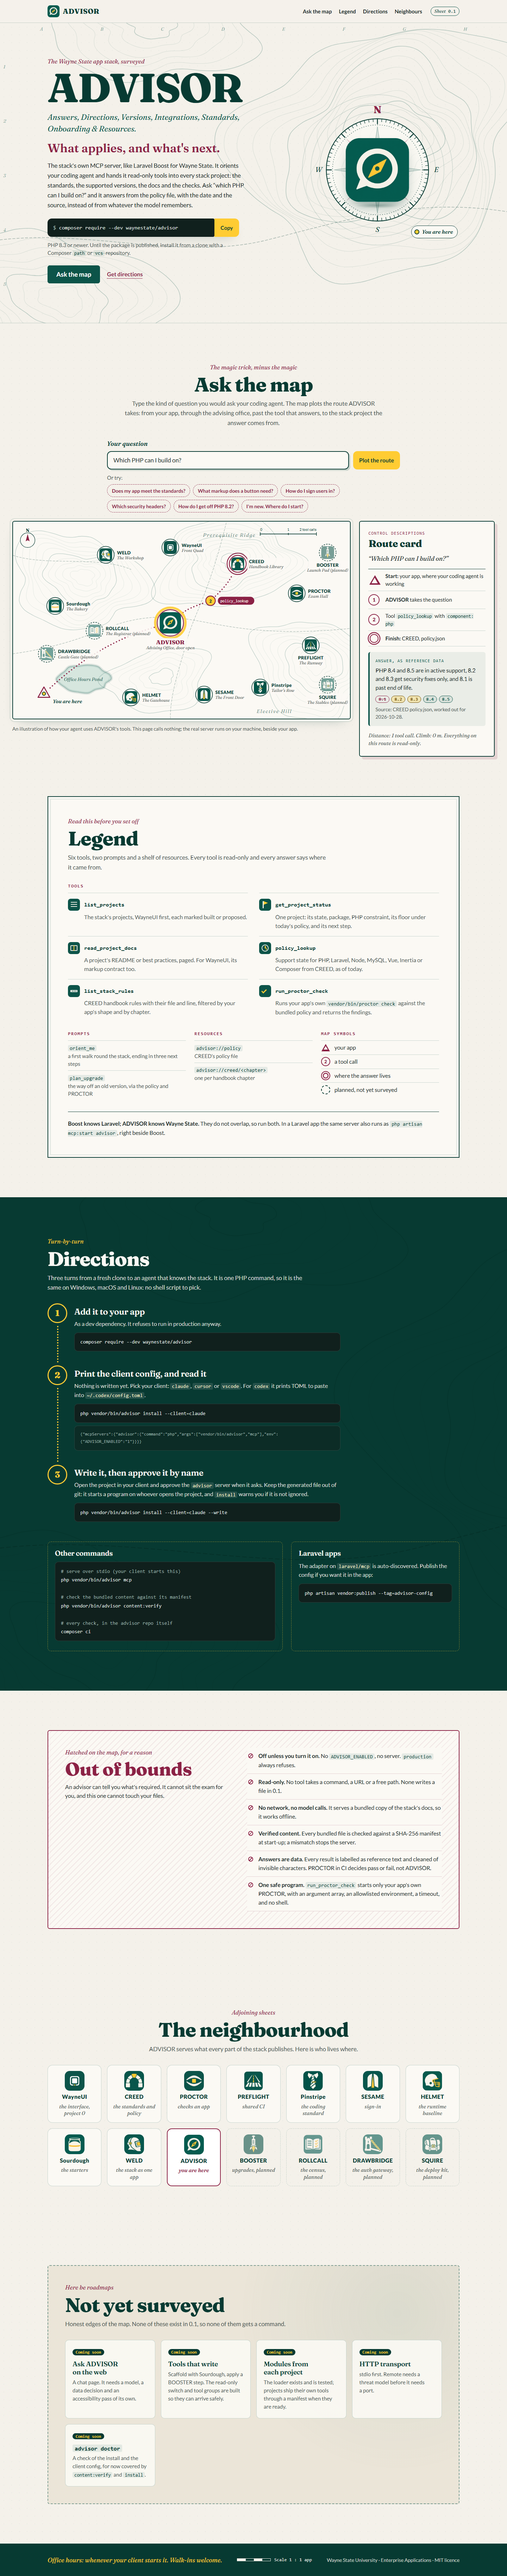
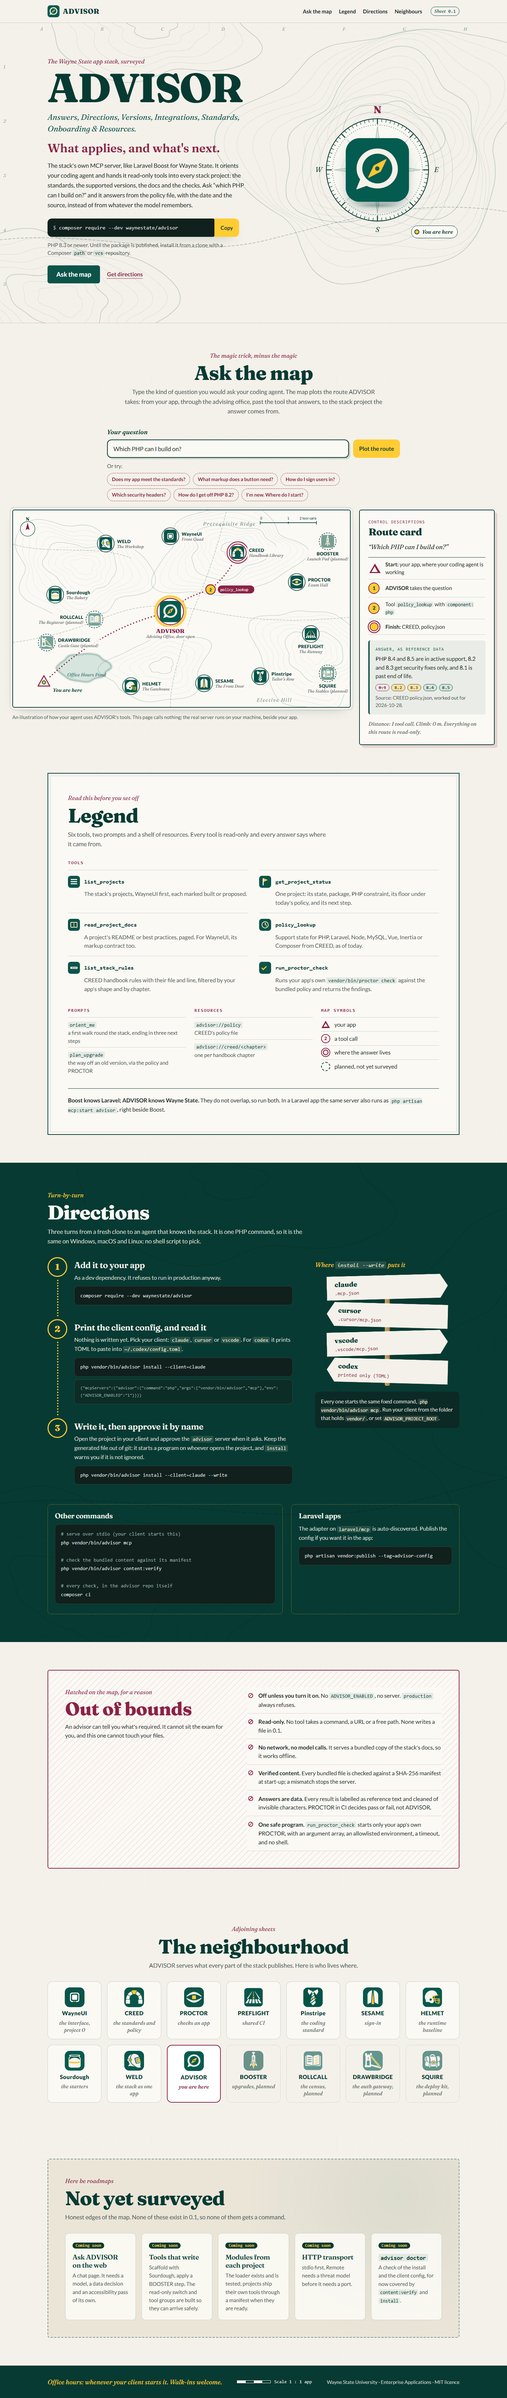
Directions signpost, upgrade route ends at PROCTOR, tighter sections, motion GIF and mobile section crops

diff --git a/site/assets/advisor.css b/site/assets/advisor.css
@@ -116,7 +116,7 @@ code, pre { font-family: var(--wsu-font-family-mono); }
   color: var(--adv-maroon);
 }
 
-.section { padding-block: clamp(4rem, 8vw, 7rem); position: relative; }
+.section { padding-block: clamp(3rem, 5.5vw, 5rem); position: relative; }
 
 .section__head { max-width: 46rem; margin: 0 auto var(--wsu-space-8); text-align: center; }
 .section__head--left { margin-inline: 0; text-align: left; }
@@ -645,6 +645,28 @@ code, pre { font-family: var(--wsu-font-family-mono); }
 }
 .cmd--out { background: rgba(16, 32, 29, 0.55); color: var(--adv-code-dim); font-size: 0.8125rem; }
 .cmd--multi { white-space: pre-wrap; }
+.dir-grid { display: grid; grid-template-columns: minmax(0, 1.7fr) minmax(0, 1fr); gap: clamp(2rem, 5vw, 4rem); align-items: start; }
+.signpost { position: relative; margin: 0; padding-top: var(--wsu-space-2); }
+.signpost__cap { margin-bottom: var(--wsu-space-4); font-family: var(--adv-display); font-style: italic; font-size: 1.125rem; color: var(--adv-gold); }
+.signpost__arms { position: relative; z-index: 1; margin: 0; padding: 0; list-style: none; display: grid; gap: 0.7rem; }
+.signpost__pole { position: absolute; left: calc(50% - 7px); top: 3.2rem; bottom: 7.5rem; width: 14px; border-radius: 4px; background: linear-gradient(90deg, #c9a86a, #a8844a); }
+.arm {
+  position: relative;
+  display: flex; flex-direction: column;
+  width: 84%;
+  padding: 0.55rem 1.4rem 0.6rem;
+  background: var(--adv-paper);
+  color: var(--adv-green-deep);
+  box-shadow: 0 10px 18px -12px rgba(0, 0, 0, 0.6);
+  transition: translate 0.35s var(--adv-ease-spring), rotate 0.35s var(--adv-ease-spring);
+}
+.arm--r { margin-left: 8%; clip-path: polygon(0 0, calc(100% - 22px) 0, 100% 50%, calc(100% - 22px) 100%, 0 100%); rotate: -1.5deg; }
+.arm--l { margin-left: 8%; padding-left: 2rem; clip-path: polygon(22px 0, 100% 0, 100% 100%, 22px 100%, 0 50%); rotate: 1.5deg; }
+.arm--r:hover { translate: 6px 0; rotate: -3deg; }
+.arm--l:hover { translate: -6px 0; rotate: 3deg; }
+.arm__name { font-family: var(--adv-display); font-weight: 800; font-size: 1.2rem; }
+.arm code { background: none !important; padding: 0 !important; color: var(--adv-maroon) !important; font-size: 0.875rem; }
+.signpost__note { position: relative; z-index: 1; margin: var(--wsu-space-6) 0 0; padding: var(--wsu-space-4); border-radius: 10px; background: rgba(16, 32, 29, 0.6); color: rgba(244, 241, 234, 0.92); line-height: 1.55; font-size: 0.9375rem; }
 .dir-extras { display: grid; grid-template-columns: minmax(0, 1.4fr) minmax(0, 1fr); gap: var(--wsu-space-6); margin-top: var(--wsu-space-4); }
 .dir-box { min-width: 0; padding: var(--wsu-space-5); border: 1.5px dashed rgba(255, 204, 51, 0.55); border-radius: 10px; }
 .dir-box h3 { margin: 0 0 var(--wsu-space-3); font-family: var(--adv-display); font-weight: 600; font-size: 1.25rem; color: #fbf9f4; }
@@ -715,7 +737,7 @@ code, pre { font-family: var(--wsu-font-family-mono); }
     radial-gradient(circle at 85% 20%, rgba(12, 84, 73, 0.07), transparent 40%),
     var(--adv-paper-deep);
 }
-.unch { display: grid; grid-template-columns: repeat(auto-fit, minmax(220px, 1fr)); gap: var(--wsu-space-4); margin: 0; padding: 0; list-style: none; }
+.unch { display: grid; grid-template-columns: repeat(auto-fit, minmax(185px, 1fr)); gap: var(--wsu-space-4); margin: 0; padding: 0; list-style: none; }
 .unch li { padding: var(--wsu-space-5); border-radius: 10px; background: rgba(251, 249, 244, 0.9); border: 1px solid var(--adv-line); }
 .unch h3 { margin: var(--wsu-space-3) 0 0.35rem; font-family: var(--adv-display); font-weight: 600; font-size: 1.2rem; color: var(--adv-green-deep); }
 .unch p { margin: 0; color: var(--adv-ink-muted); line-height: 1.55; font-size: 0.9375rem; }
@@ -751,7 +773,8 @@ code, pre { font-family: var(--wsu-font-family-mono); }
   .legend { grid-template-columns: minmax(0, 1fr); }
   .legend__extras { grid-template-columns: minmax(0, 1fr); }
   .bounds { grid-template-columns: minmax(0, 1fr); }
-  .dir-extras { grid-template-columns: minmax(0, 1fr); }
+  .dir-extras, .dir-grid { grid-template-columns: minmax(0, 1fr); }
+  .signpost { max-width: 26rem; }
   .sheet-nav { display: none; }
   .sheet-head__meta { margin-left: auto; }
 }

diff --git a/site/index.html b/site/index.html
@@ -159,7 +159,7 @@
               <clipPath id="clip-hub"><rect x="-38" y="-38" width="76" height="76" rx="18"/></clipPath>
             </defs>
             <image href="assets/terrain-map.svg" x="0" y="0" width="1200" height="700" preserveAspectRatio="none"/>
-            <text class="map__water" x="250" y="566" text-anchor="middle">Office Hours Pond</text>
+            <text class="map__water" x="262" y="590" text-anchor="middle">Office Hours Pond</text>
             <text class="map__hill" x="770" y="54" text-anchor="middle">Prerequisite Ridge</text>
             <text class="map__hill" x="930" y="680" text-anchor="middle">Elective Hill</text>
             <g class="map__routes" id="map-routes"></g>
@@ -282,6 +282,7 @@
           Windows, macOS and Linux: no shell script to pick.</p>
       </div>
 
+      <div class="dir-grid">
       <ol class="turns">
         <li class="turn">
           <span class="turn__num" aria-hidden="true">1</span>
@@ -312,6 +313,21 @@
           </div>
         </li>
       </ol>
+
+      <!-- A trail signpost: where install writes for each client
+           (src/Command/ClientConfig.php). -->
+      <figure class="signpost">
+        <figcaption class="signpost__cap">Where <code>install --write</code> puts it</figcaption>
+        <ul class="signpost__arms">
+          <li class="arm arm--r"><span class="arm__name">claude</span><code>.mcp.json</code></li>
+          <li class="arm arm--l"><span class="arm__name">cursor</span><code>.cursor/mcp.json</code></li>
+          <li class="arm arm--r"><span class="arm__name">vscode</span><code>.vscode/mcp.json</code></li>
+          <li class="arm arm--l"><span class="arm__name">codex</span><code>printed only (TOML)</code></li>
+        </ul>
+        <span class="signpost__pole" aria-hidden="true"></span>
+        <p class="signpost__note">Every one starts the same fixed command, <code>php vendor/bin/advisor mcp</code>. Run your client from the folder that holds <code>vendor/</code>, or set <code>ADVISOR_PROJECT_ROOT</code>.</p>
+      </figure>
+      </div>
 
       <div class="dir-extras">
         <div class="dir-box">
@@ -365,7 +381,7 @@ composer ci</code></pre>
       </div>
 
       <ul class="hood">
-        <li class="hood__item"><span class="hood__mark hood__mark--tile"><img src="assets/marks/wayneui.svg" width="40" height="40" alt=""></span><span class="hood__name">WayneUI</span><span class="hood__role">the interface, project 0</span></li>
+        <li class="hood__item"><span class="hood__mark hood__mark--tile"><img src="assets/marks/wayneui.svg" width="40" height="40" alt=""></span><span class="hood__name">WayneUI</span><span class="hood__role">the interface, project&nbsp;0</span></li>
         <li class="hood__item"><span class="hood__mark"><img src="assets/marks/creed.png" width="56" height="56" alt=""></span><span class="hood__name">CREED</span><span class="hood__role">the standards and policy</span></li>
         <li class="hood__item"><span class="hood__mark"><img src="assets/marks/proctor.png" width="56" height="56" alt=""></span><span class="hood__name">PROCTOR</span><span class="hood__role">checks an app</span></li>
         <li class="hood__item"><span class="hood__mark"><img src="assets/marks/preflight.png" width="56" height="56" alt=""></span><span class="hood__name">PREFLIGHT</span><span class="hood__role">shared CI</span></li>

diff --git a/site/assets/advisor.js b/site/assets/advisor.js
@@ -239,8 +239,8 @@
     upgrade: {
       keys: ["upgrade", "8.1", "8.2", "off php", "old php", "migrate", "outdated", "booster", "get off", "move to"],
       steps: function () { return [{ prompt: "plan_upgrade" }, { tool: "policy_lookup", args: "component: php" }, { tool: "run_proctor_check" }]; },
-      dest: "booster", detail: "planned; the prompt points at the policy and PROCTOR meanwhile",
-      answer: function () { return policyAnswer("php", "BOOSTER, the upgrade tool, is still planned, so plan_upgrade walks the policy and your PROCTOR findings instead."); }
+      dest: "proctor", detail: "your app's findings, the way off the old version",
+      answer: function () { return policyAnswer("php", "plan_upgrade walks the policy and your PROCTOR findings one hop at a time. BOOSTER, the upgrade tool, is planned to take over the heavy lifting."); }
     },
     proctor: {
       keys: ["pass", "check", "standards", "standard", "proctor", "meet", "audit", "finding", "findings", "comply", "compliant"],
@@ -553,7 +553,7 @@
   /* --------------------------------------------- 6. reveals, small delights */
 
   if (motion && "IntersectionObserver" in window) {
-    var targets = document.querySelectorAll(".section__head, .legend-sheet, .turn, .dir-box, .bounds, .hood__item, .uncharted, .unch li");
+    var targets = document.querySelectorAll(".section__head, .legend-sheet, .turn, .dir-box, .signpost, .bounds, .hood__item, .uncharted, .unch li");
     var counters = new Map();
     targets.forEach(function (t) {
       var parent = t.parentElement;
